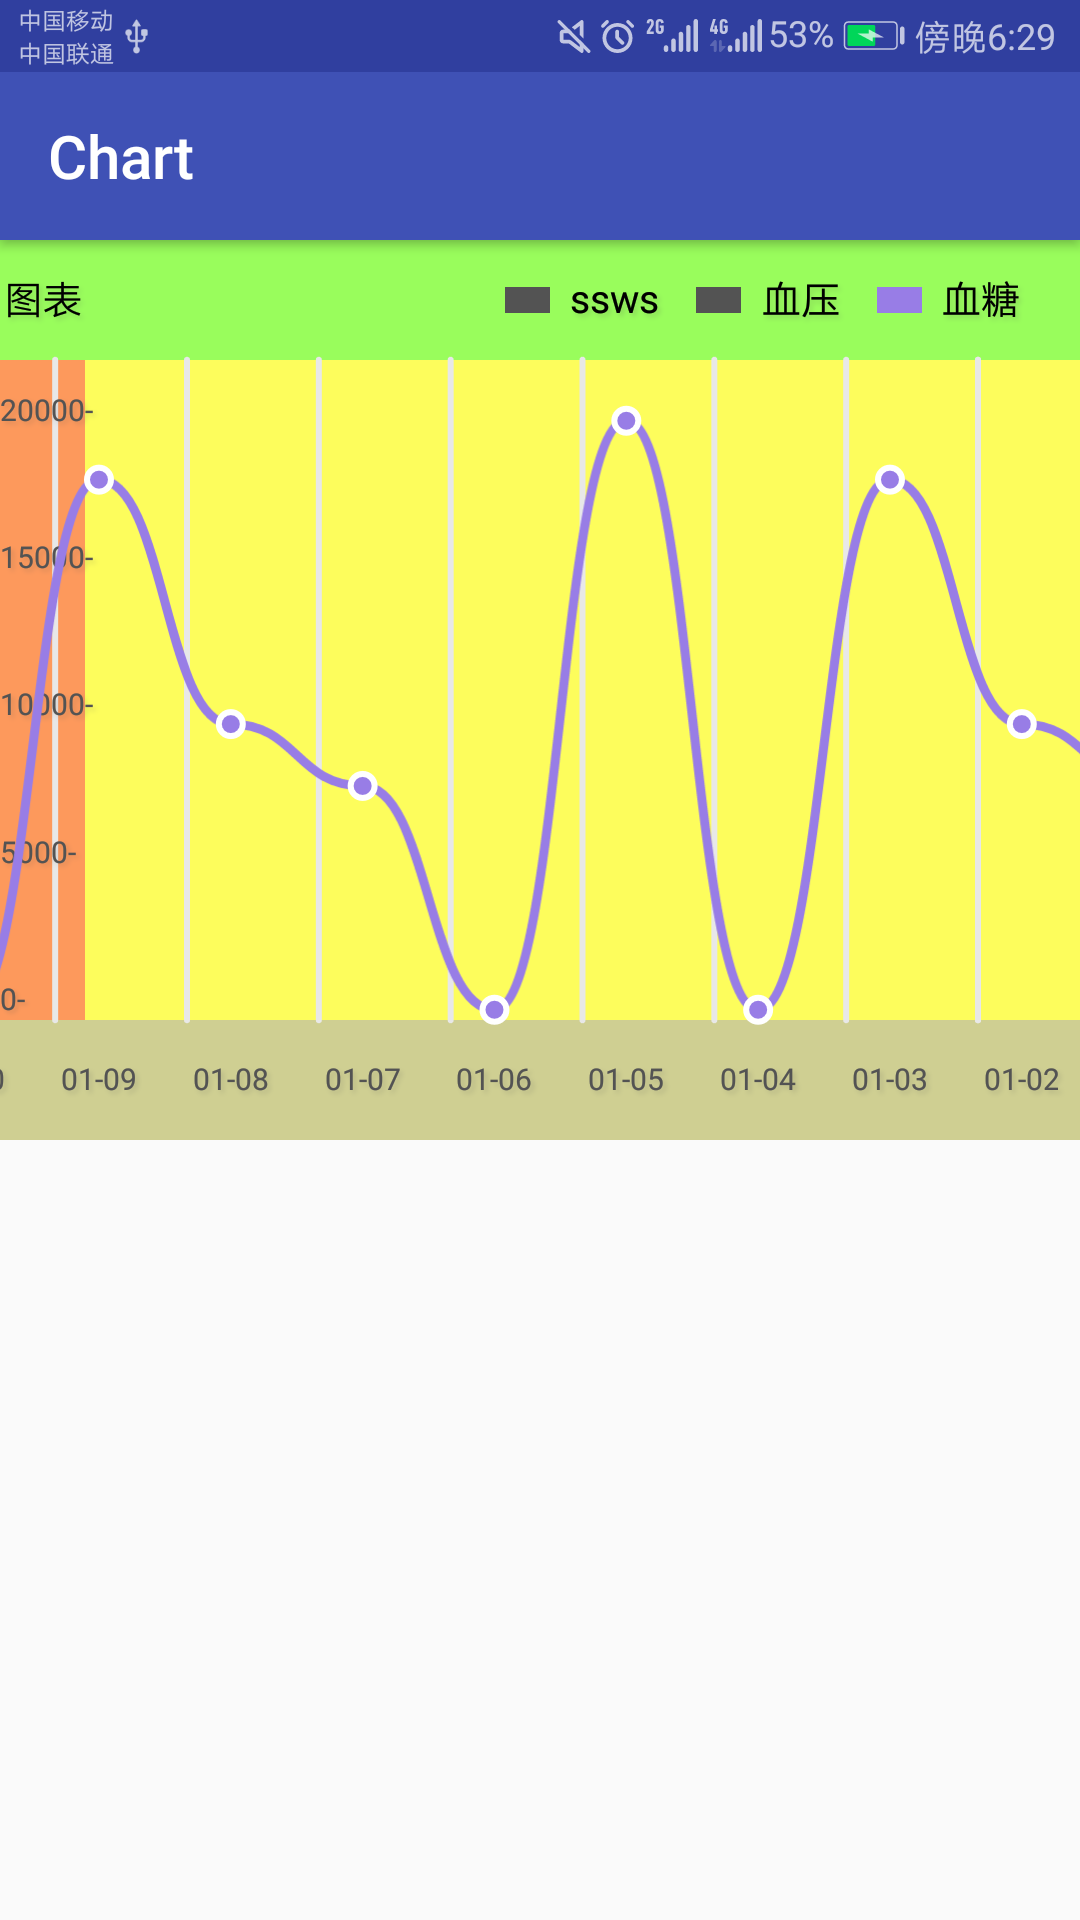
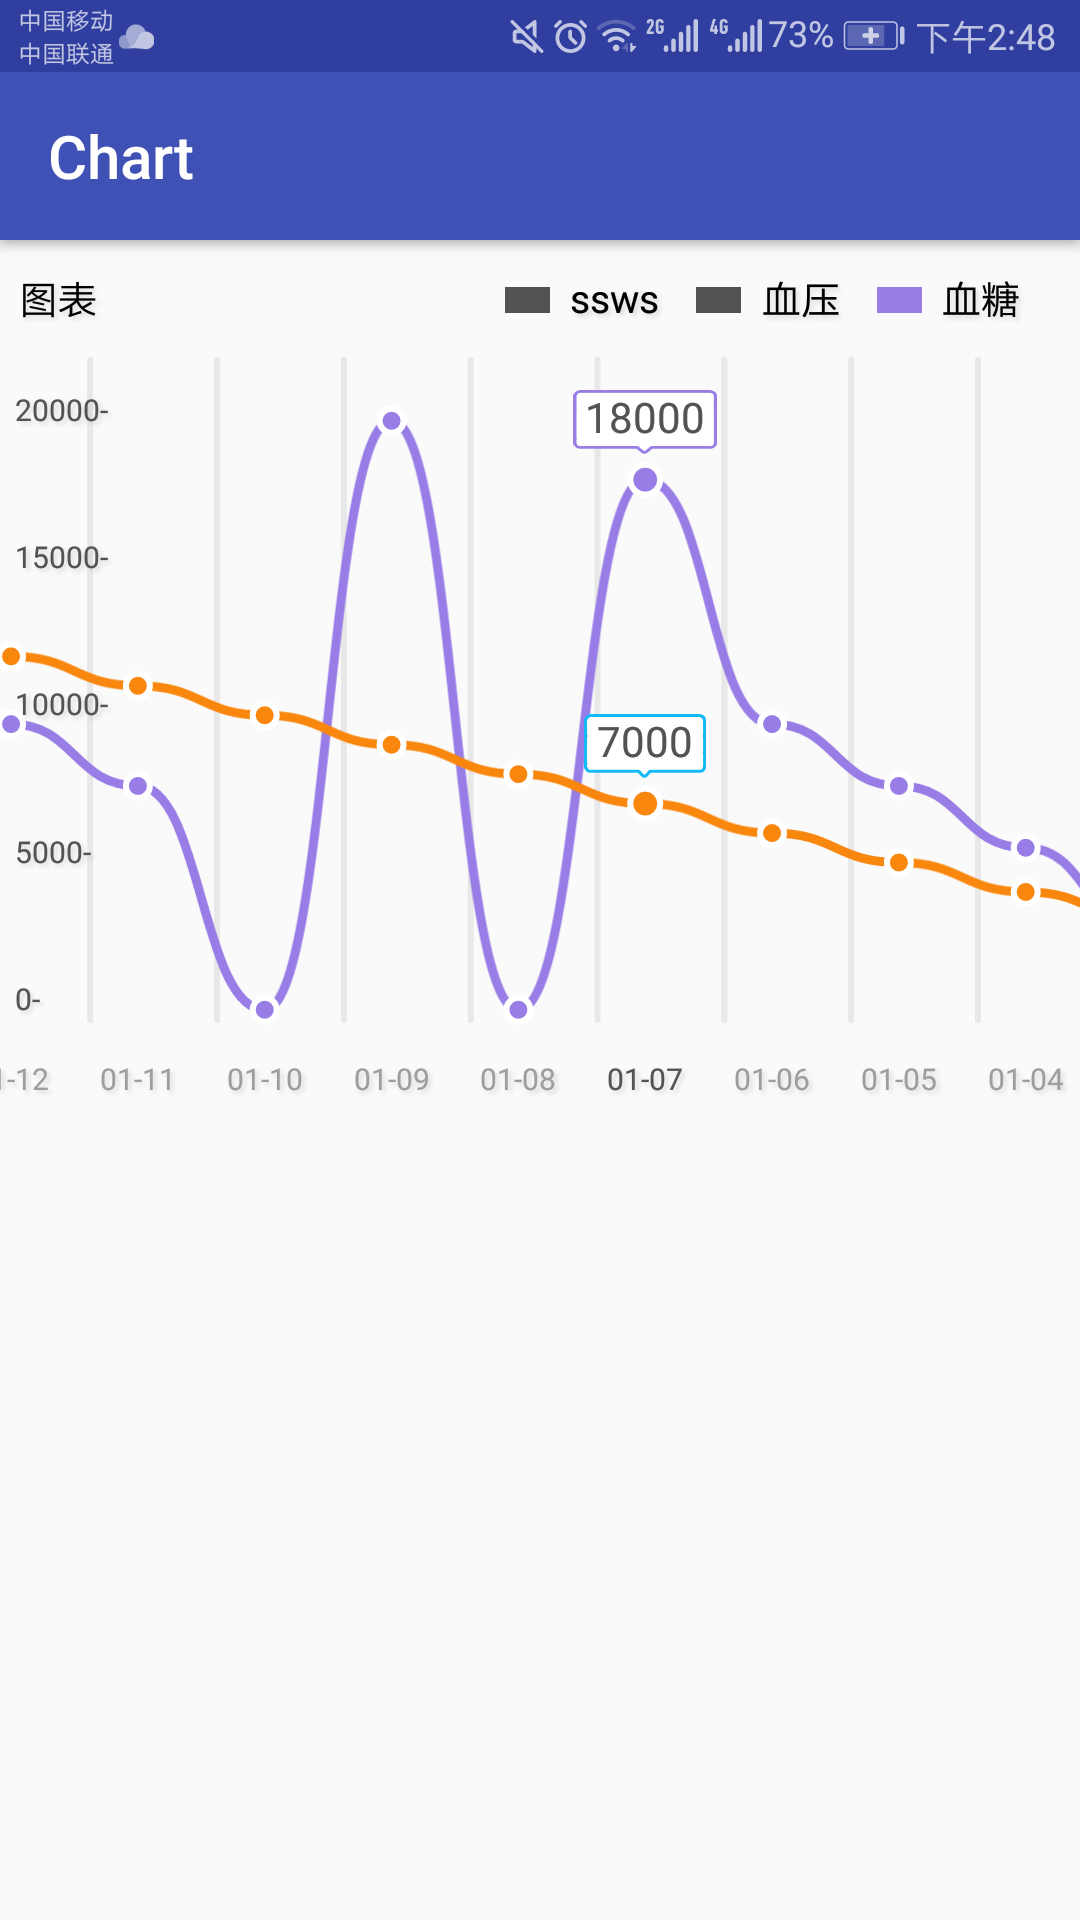
添加点击效果

diff --git a/app/src/main/java/com/niujunjie/www/chart/chart/LineChart.java b/app/src/main/java/com/niujunjie/www/chart/chart/LineChart.java
@@ -4,7 +4,9 @@ import android.animation.ValueAnimator;
 import android.content.Context;
 import android.graphics.Canvas;
 import android.graphics.Path;
+import android.graphics.Rect;
 import android.graphics.RectF;
+import android.graphics.drawable.NinePatchDrawable;
 import android.support.annotation.Nullable;
 import android.util.AttributeSet;
 import android.view.MotionEvent;
@@ -162,6 +164,7 @@ public class LineChart extends BaseChart {
                 lineData.setLineNum(i);
                 lineData.setPosition(j);
                 lineDatas.add(lineData);
+                lineData.setPopValue(currnetValue);
             }
             if (start != end) {
                 mChartDatas.put(i, lineDatas);
@@ -178,27 +181,53 @@ public class LineChart extends BaseChart {
         for (int i = 0; i < mChartDatas.size(); i++) {
             drawSmoothLine(canvas, mChartDatas.get(i), i);
             drawDot(canvas, mChartDatas.get(i), i);
-        }
 
-        if (selectData.size() == mChartDatas.size()) {
-            drawSelecrDot(canvas);
-            if(params.isShowPop()){
-                drawPop(canvas);
+            if (selectData.size() == mChartDatas.size()) {
+                if (params.isShowPop()) {
+                    drawPop(canvas, selectData.get(i), i);
+                }
+                drawSelecrDot(canvas, selectData.get(i), i);
             }
         }
+
 
         /**
          * 在此绘制y轴数据避免显示被遮挡
          */
         drawXValue(canvas, selectData);
-        drawYValue(canvas);
 
+        drawYValue(canvas);
 
 
     }
 
-    private void drawPop(Canvas canvas) {
+    private void drawPop(Canvas canvas, LineData lineData, int lineNum) {
+        float x = lineData.getX() - offset;
+        float y = lineData.getY() - ChartUtils.dip2px(getContext(), 5);
+        Rect popupTextRect = new Rect();
+        String var1;
+        if (mYAxis.getMaxValue() == 20000 || mYAxis.getMaxValue() == 300) {
+            var1 = String.format("%.0f", lineData.getPopValue());
+        } else {
+            var1 = String.format("%.1f", lineData.getPopValue());
+        }
+        params.getPopPaint().getTextBounds(var1, 0, var1.length(), popupTextRect);
 
+        int toPointDistance = ChartUtils.dip2px(getContext(), 14);
+        int paddingRightLeft = ChartUtils.dip2px(getContext(), 5);
+        int left = (int) (x - popupTextRect.width() / 2 - paddingRightLeft);
+        int top = (int) (y - popupTextRect.height()) - toPointDistance;
+        int right = (int) (x + popupTextRect.width() / 2 + paddingRightLeft);
+        int bottom = (int) (y + popupTextRect.height() - toPointDistance);
+
+        Rect r = new Rect(left, top, right, bottom);
+
+        NinePatchDrawable popup = (NinePatchDrawable)
+                getResources().getDrawable(params.getPopBgColors()[lineNum]);
+        popup.setBounds(r);
+        popup.draw(canvas);
+
+        canvas.drawText(var1, x, y - r.height() / 2, params.getPopPaint());
     }
 
     private void drawDot(Canvas canvas, List<LineData> lineData, int lineNum) {
@@ -214,17 +243,15 @@ public class LineChart extends BaseChart {
     }
 
 
-    private void drawSelecrDot(Canvas canvas) {
+    private void drawSelecrDot(Canvas canvas, LineData lineData, int lineNum) {
         float bigRadius = ChartUtils.dip2px(getContext(), 6);
         float smallRadius = ChartUtils.dip2px(getContext(), 4);
 
-        for (int m = 0; m < selectData.size(); m++) {
-            //选中的点放大
-            float x = selectData.get(m).getX();
-            float y = selectData.get(m).getY();
-            canvas.drawCircle(x - offset, y, bigRadius * mClickValue, params.getBigCirPaint());
-            canvas.drawCircle(x - offset, y, smallRadius * mClickValue, params.getSmallCirPaint(m));
-        }
+        //选中的点放大
+        float x = lineData.getX();
+        float y = lineData.getY();
+        canvas.drawCircle(x - offset, y, bigRadius * mClickValue, params.getBigCirPaint());
+        canvas.drawCircle(x - offset, y, smallRadius * mClickValue, params.getSmallCirPaint(lineNum));
     }
 
 

diff --git a/app/src/main/java/com/niujunjie/www/chart/chart/Params.java b/app/src/main/java/com/niujunjie/www/chart/chart/Params.java
@@ -4,6 +4,8 @@ import android.content.Context;
 import android.graphics.Color;
 import android.graphics.Paint;
 
+import com.niujunjie.www.chart.R;
+
 import java.util.ArrayList;
 import java.util.HashMap;
 import java.util.List;
@@ -44,8 +46,16 @@ public class Params {
     /**
      * 是否显示气泡
      */
-    private boolean isShowPop = false;
+    private boolean isShowPop = true;
 
+
+
+    /**
+     * 弹出气泡的背景
+     */
+    private int[] popColorArray = {R.drawable.chart_bg_01, R.drawable.chart_bg_02};
+
+    private Paint popPaint;
     /**
      * 图表数据
      */
@@ -196,5 +206,26 @@ public class Params {
             paint.setColor(Color.parseColor(lineColor[i]));
         }
         return paint;
+    }
+
+
+    public Paint getPopPaint() {
+        Paint paint = ChartUtils.initPaint(new Paint());
+        paint.setTextAlign(Paint.Align.CENTER);
+        paint.setTextSize(ChartUtils.dip2px(mContext,14));
+        paint.setColor(Color.parseColor("#535353"));
+        return paint;
+    }
+
+    public void setPopPaint(Paint popPaint){
+        this.popPaint = popPaint;
+    }
+
+    public int[] getPopBgColors() {
+        return popColorArray;
+    }
+
+    public void setPopBgColors(int[] popColorArray) {
+        this.popColorArray = popColorArray;
     }
 }

diff --git a/app/src/main/java/com/niujunjie/www/chart/chart/LineData.java b/app/src/main/java/com/niujunjie/www/chart/chart/LineData.java
@@ -15,7 +15,7 @@ public class LineData {
     /**
      * 点击是气泡要显示的值
      */
-    private String popValue;
+    private float popValue;
 
 
     /**
@@ -50,11 +50,11 @@ public class LineData {
     }
 
 
-    public String getPopValue() {
+    public float getPopValue() {
         return popValue;
     }
 
-    public void setPopValue(String popValue) {
+    public void setPopValue(float popValue) {
         this.popValue = popValue;
     }
 
@@ -82,7 +82,7 @@ public class LineData {
         return point.y;
     }
 
-    public int getLineNum() {
+    public int getLineNum(){
         return LineNum;
     }
 
